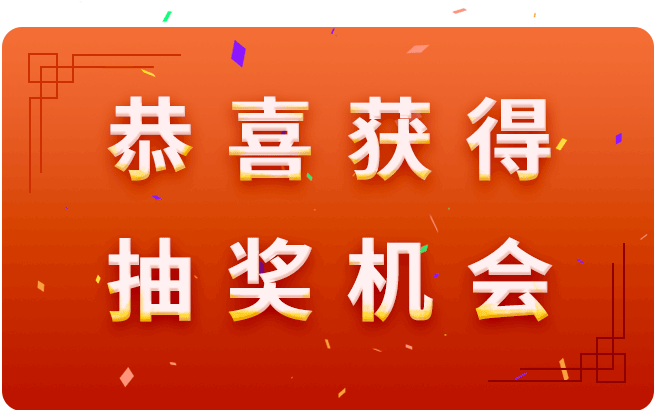
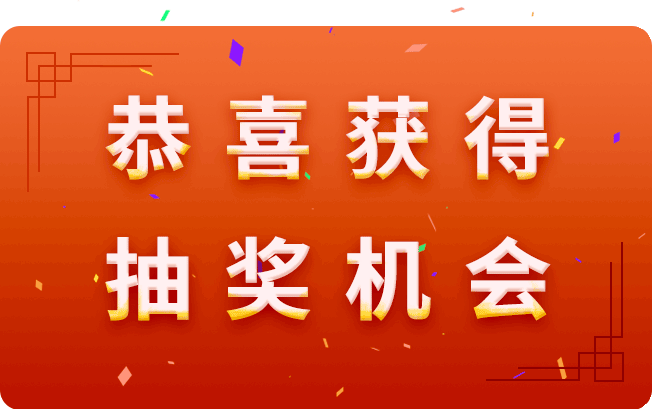
sdhks

diff --git a/index.html b/index.html
@@ -373,6 +373,11 @@
         <g id="parent">
             <!-- <rect x="0" y="0" opacity="0.5" height="1000" width="750" fill="#000000"/>
             <image xlink:href="./images/result_text.png" x="23" y="120" width="325" height="202"/>
+                  <image
+            xlink:href="./images/draw_text.png"
+            x='25' y='185' width="300" height="105" 
+            opacity="0"
+          >
             <image xlink:href="./images/button_background.png" x="23" y="320" width="325" height="104"/>
             <image xlink:href="./images/button.png" x="104" y="395" width="150" height="48" onclick="goToActive()"/>  -->
         </g>
@@ -406,7 +411,7 @@
           if (num != 3) {
             num = num + 1;
           } else if (num == 3) {
-            let child ='<rect x="0" y="0" opacity="0.5"  height="1000" width="750"  fill="#000000"/><image xlink:href="./images/result_text.png" x="23" y="120" width="325" height="202"/><image xlink:href="./images/button_background.png" x="23" y="320" width="325" height="104"/><image xlink:href="./images/button.png" x="104" y="395" width="150" height="48" onclick="goToActive()"/>';
+            let child ='<rect x="0" y="0" opacity="0.5"  height="1000" width="750"  fill="#000000"/><image xlink:href="./images/result_text.png" x="25" y="120" width="325" height="202"/><image xlink:href="./images/button_background.png" x="25" y="320" width="325" height="104"/><image xlink:href="./images/button.png" x="112" y="395" width="150" height="48" onclick="goToActive()"/>';
             setTimeout(function() {
               svgDoc.innerHTML = child;
               twoPage.innerHTML = '';
